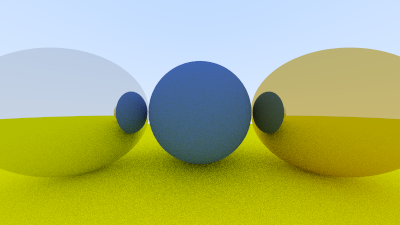
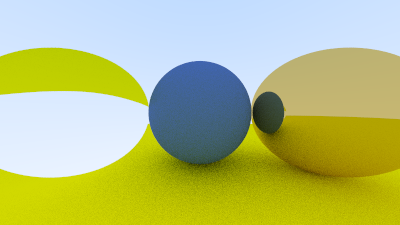
增加折射材质电介质 dielectric

Changed region(s): [[0.0, 0.1867, 0.45, 0.9644], [0.69, 0.4978, 0.72, 0.5289]]

diff --git a/material.h b/material.h
@@ -60,4 +60,27 @@ private:
     color albedo;
     float fuzz;
 };
+
+// 电介质，产生折射
+class dielectric : public material {
+public:
+    __device__ dielectric(float refraction_index) : refraction_index(refraction_index) {}
+
+    __device__ bool scatter(const ray &r_in, const hit_record &rec, color &attenuation, ray &scattered, curandState &rand_state)
+    const override {
+        attenuation = color(1.0, 1.0, 1.0);
+        float ri = rec.front_face ? (1.0f / refraction_index) : refraction_index;
+
+        vec3 unit_direction = unit_vector(r_in.direction());
+        vec3 refracted = refract(unit_direction, rec.normal, ri);
+
+        scattered = ray(rec.p, refracted);
+        return true;
+    }
+
+private:
+    // Refractive index in vacuum or air, or the ratio of the material's refractive index over
+    // the refractive index of the enclosing media.
+    float refraction_index;
+};
 #endif // MATERIAL_H

diff --git a/vec3.h b/vec3.h
@@ -155,4 +155,13 @@ __device__ inline vec3 random_on_hemisphere(const vec3 &normal, curandState &ran
 __device__ inline vec3 reflect(const vec3 &v, const vec3 &n) {
     return v - 2 * dot(v, n) * n;
 }
+
+// 折射
+// uv 为入射光线，n 为介质平面法向量，etai_over_etat 为入射介质的折射率与折射介质的折射率之比
+__device__ inline vec3 refract(const vec3 &uv, const vec3 &n, float etai_over_etat) {
+    auto cos_theta = fminf(dot(-uv, n), 1.0f);
+    vec3 r_out_perp = etai_over_etat * (uv + cos_theta * n);
+    vec3 r_out_parallel = -sqrtf(fabsf(1.0f - r_out_perp.length_squared())) * n;
+    return r_out_perp + r_out_parallel;
+}
 #endif // VEC3_H
